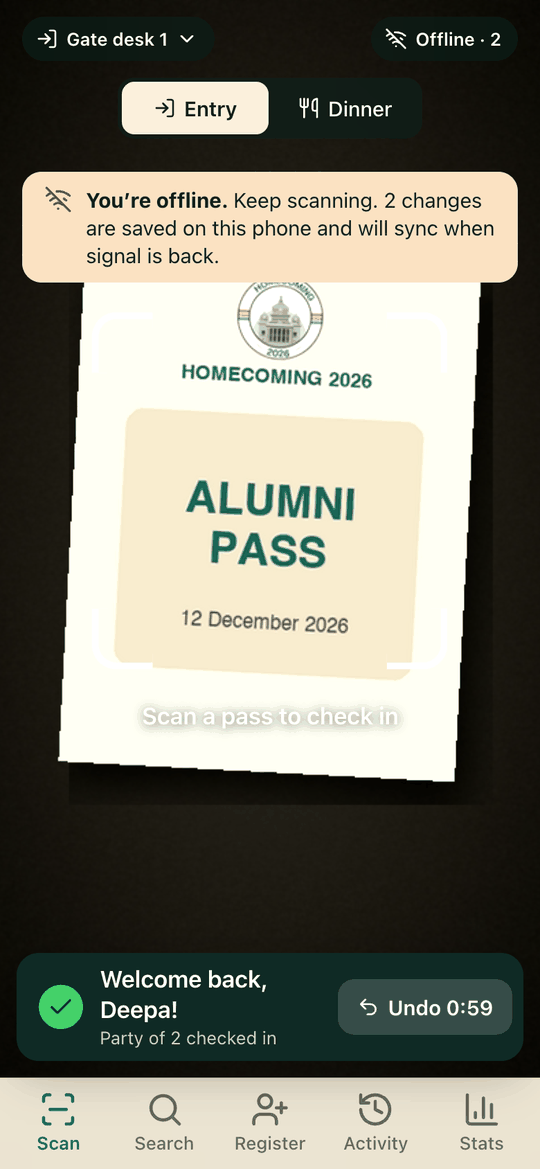
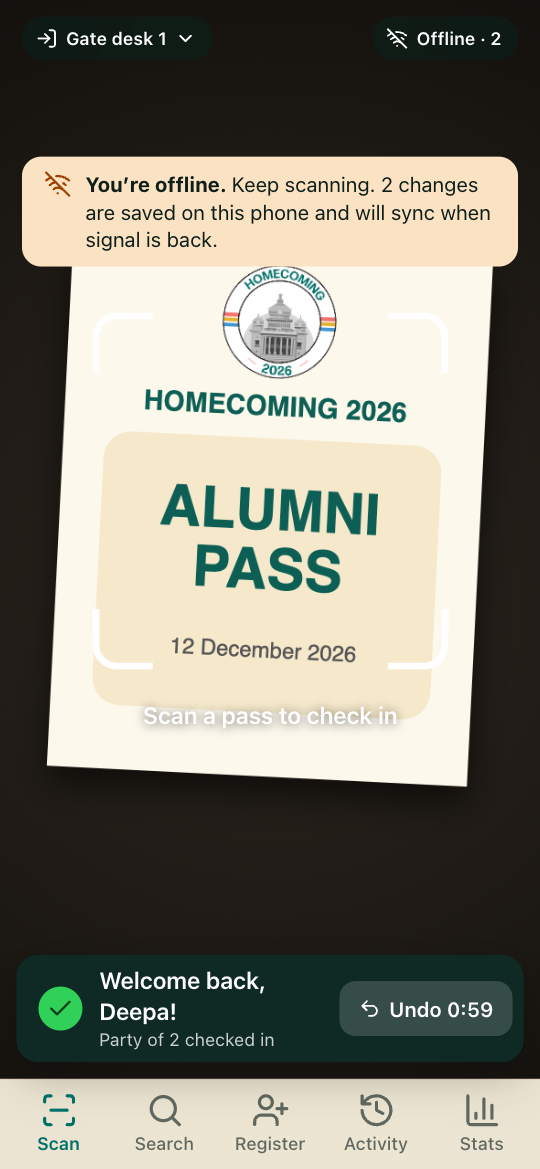
Re-shoot the docs screenshots for check-in only
The old shots still showed the Entry/Dinner switch, Meals served, the Dinner tab and the dinner correction sheet. Re-shot from the demo app at the same size (540x1169; hero 1600x900): scan sheets, Stats, Activity, Search, Guest, Correct, Review, Account (with the new Danger zone), offline, dark mode, counter picker, ready-offline and the hero. Sign-in, Register, Pass, Import, Users and Not-on-the-list are unaffected and unchanged. CONTEXT.md no longer lists the screenshots as not done.

diff --git a/CONTEXT.md b/CONTEXT.md
@@ -11,7 +11,7 @@ Dinner scanning is gone. The app has one scan: check-in at a gate. Removed: the 
 - **Flush (migration 10, `supabase/migrations/20261122000010_flush_checkins.sql`).** Account, Danger zone, "Flush all check-ins" (admin only, enforced in the database). It writes one void per live check-in in a single transaction (same lock as `push_batch`), reason `Flush: <why>`, method `staff`, one shared timestamp. Void rather than delete because phones only pull rows with a higher `seq` and never see a server delete, and the log stays append-only. The admin can also remove on-spot guests (soft delete like a list Replace, contacts deleted). The screen asks for a reason and a typed sentence that carries the count (`flush 299 check-ins`), shows phones that still report unsent items, and is blocked while this phone has unsent items. There is no server guard against a straggler phone: its old scans arrive after the flush and check guests in again, so run the flush again once that phone has synced. Migration 10 only adds functions, so it can be applied to the shared project at any time. The Audit screen shows each flush as one line (`lib/flush.ts`).
 - **Removing people (migration 11, `20261122000011_delete_user.sql`).** "Remove from the list" only switches a person off. A switched-off or deleted account fails every sync call with `Your account is switched off or removed` (SQLSTATE 42501, from `_require_staff`), and signing in again gets "not on the list". The app (`lib/authError.ts`) reads that wording, sets `prefs.accessRemoved` and shows `AccessRemoved.tsx`: with nothing unsent the phone signs itself out; with unsent scans it asks first (they can no longer be sent). If an admin switches the person back on, the next successful pull clears the screen. Before migration 11 is applied the old "please sign in again" banner shows instead. **Delete permanently** (Admin, Users, a switched-off person) is offered only when `admin_list_users` says `canDelete`: no scan, registered guest, review, added user or edit names them (their own sign-in entries in the audit log are allowed and lose the account pointer). The Authentication, Users record in Supabase is not touched. A phone that is offline keeps working on its local data until it next reaches the server, and a Supabase sign-in token stays valid for up to an hour but is useless without a staff row.
 - Dexie is unchanged (still version 1). `Party.entitledOverride` is no longer read from the server or stored; old rows that still carry it are harmless.
-- Not done: the screenshots in `docs/screenshots` still show the old Entry/Dinner switch on the scanner, and `hero.png` was not re-shot. The dinner-only screenshots were deleted.
+- The screenshots in `docs/screenshots` were re-shot from the demo app for check-in only (scan sheets, Stats, Activity, Search, Guest, Correct, Review, Account, offline, dark mode and the hero). Sign-in, Register, Pass, Import, Users and Not-on-the-list were not affected and kept their old shots.
 
 ## What this is
 
